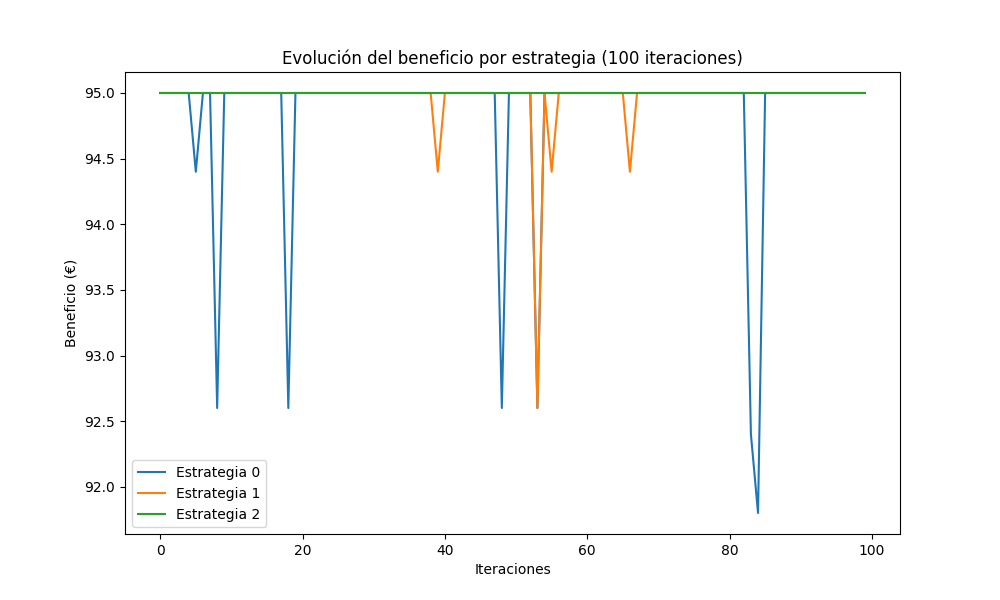
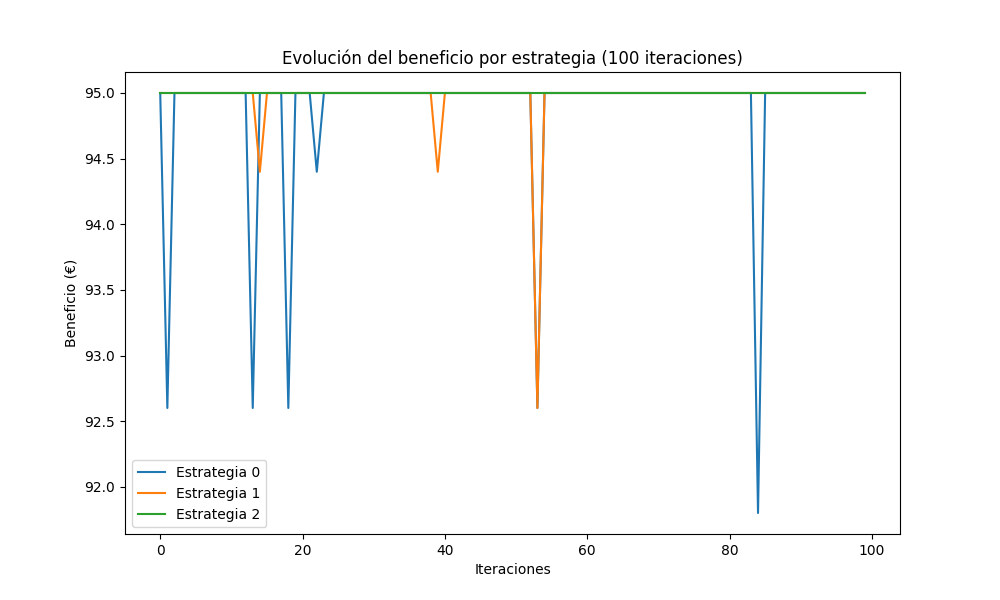
experiment 3

diff --git a/functions_bicing.py b/functions_bicing.py
@@ -22,7 +22,7 @@ def ejecucion_individual_HC(opt: int = 2, \
     tiempo_inicio = time.time()
     final_solution_HC = hill_climbing(problema_bicing)
     tiempo_final = time.time()
-    
+
     initial_state.print_state(inicial=True)
     initial_state.visualize_state(manhattan = True)
     final_solution_HC.print_state()
@@ -136,46 +136,6 @@ def comparar_all_operadores(opt: int = 0, \
     print(f"OPT: {opt} | ITERACIONES POR CONJUNTO DE OPERADORES: {iteraciones} | HEURÍSTICO: {2 if params.coste_transporte else 1}\n")
     print(f"SEMILLAS USADAS: {lista_semillas}\n")
 
-'''
-def mejor_initial_state(initial_strategies: list = [0, 1, 2], iteraciones: int = 10) -> None:
-    """
-    Compara los resultados de los tres métodos de generación de estados iniciales y escribe en pantalla los resultados indicando el mejor de ellos.
-    """
-    results_accumulated = {strategy: 0 for strategy in initial_strategies}
-
-    for i in range(iteraciones):
-        print(f"PROGRESO: {(i/iteraciones)*100}%")
-        for strategy in initial_strategies:
-            initial_state = generate_initial_state(opt=strategy)
-            
-            problema_bicing = ProblemaBicing(initial_state)
-            final_solution_HC = hill_climbing(problema_bicing)
-            
-            heuristic_value = final_solution_HC.heuristic()
-            
-            results_accumulated[strategy] += heuristic_value
-
-    results_average = {strategy: total/iteraciones for strategy, total in results_accumulated.items()}
-
-    print(f"\nHEURÍSTICO {2 if params.coste_transporte else 1} | {iteraciones} ITERACIONES:")
-    for strategy, avg in results_average.items():
-        print(f"   * OPT: {strategy} --> BENEFICIO MEDIO: {avg} {'[BEST]' if avg == max(results_average.values()) else ''}")
-    
-    # Creación del boxplot
-    strategies_names = [str(s) for s in initial_strategies]
-    data_to_plot = [results_accumulated[s] for s in initial_strategies]
-
-    fig, ax = plt.subplots()
-    ax.boxplot(data_to_plot)
-
-    ax.set_xticklabels(strategies_names)
-    ax.set_title('Comparación de Coste Heurístico por Estrategia de Solución Inicial')
-    ax.set_xlabel('Estrategias de Solución Inicial')
-    ax.set_ylabel('Coste Heurístico')
-
-    plt.savefig('experimento2.png', format='png')  # Guardar gráfico como PNG
-    plt.show()'''
-
 def mejor_initial_state(iteraciones: int = 15, \
                         iteraciones_estrategias_aleatorias: int = 5, \
                             semilla_rng: int = random.randint(0, 1000), \
@@ -243,11 +203,12 @@ def comparar_resultados_HC_SA(HC: bool = True, \
                               SA: bool = True, \
                                 iterations: int = 10, \
                                     opt: int = 2, \
-                                        schedule_sa = None, \
-                                            beneficios_bool: bool = True, \
-                                                tiempos_bool: bool = True, \
-                                                    distancias_bool: bool = True, \
-                                                        ocultar_progreso: bool = False) -> Union[None, list]:
+                                        operadores_activos: dict = {operator: True for operator in params.operadores_modificables}, \
+                                            schedule_sa = None, \
+                                                beneficios_bool: bool = True, \
+                                                    tiempos_bool: bool = True, \
+                                                        distancias_bool: bool = True, \
+                                                            mostrar_progreso: bool = True) -> Union[None, list]:
     """
     Realiza los experimentos con Hill Climbing y Simulated Annealing y genera las gráficas de los resultados.
     Se pueden desactivar los experimentos que no se quieran realizar.
@@ -259,11 +220,11 @@ def comparar_resultados_HC_SA(HC: bool = True, \
     tiempos_SA, beneficios_SA, distancias_SA = [], [], []
 
     for i in range(iterations):
-        if not ocultar_progreso:
+        if mostrar_progreso:
             print(f"PROGRESO: {round((i/iterations)*100, 1)}%", end='\r')
         
         # Generación del estado inicial
-        initial_state = generate_initial_state(opt=opt)
+        initial_state = generate_initial_state(opt=opt, operadores_activos=operadores_activos)
         initial_state.heuristic()
         problema_bicing = ProblemaBicing(initial_state)
 
@@ -334,12 +295,24 @@ def encontrar_parametros_SA(opt: int = 2, \
                                             operadores_activos: dict = {operator: True for operator in params.operadores_modificables}) -> tuple:
     
     resultados_SA = []
+    progreso = 0
     for k in valores_k:
         for lam in valores_lam:
+            progreso += 1
+            print(f"PROGRESO: {progreso}/{len(valores_k)*len(valores_lam)}", end='\r')
             def exp_schedule(k: float=k, lam: float=lam, limit: int=limit):
                 return lambda t: (k * exp(-lam * t)) if t < limit else 0
             
-            resultados_iteraciones = comparar_resultados_HC_SA(HC=False, SA=True, iterations=iteraciones_por_valor, opt=opt, schedule_sa=exp_schedule(), beneficios_bool=False, tiempos_bool=False, distancias_bool=False)
+            resultados_iteraciones = comparar_resultados_HC_SA(HC=False, \
+                                                               SA=True, \
+                                                                iterations=iteraciones_por_valor, \
+                                                                    opt=opt, \
+                                                                        operadores_activos=operadores_activos, \
+                                                                            schedule_sa=exp_schedule(), \
+                                                                                beneficios_bool=False, \
+                                                                                    tiempos_bool=False, \
+                                                                                        distancias_bool=False, \
+                                                                                            mostrar_progreso=False)
             promedio_iteraciones = sum(resultados_iteraciones)/iteraciones_por_valor
             resultados_SA.append((promedio_iteraciones, k, lam))
 
@@ -348,45 +321,65 @@ def encontrar_parametros_SA(opt: int = 2, \
     # Nos quedamos con el mejor resultado
     mejor_resultado = max(resultados_SA, key=lambda x: x[0])
     best_k, best_lambda = mejor_resultado[1], mejor_resultado[2]
+    print(f"Mejor resultado: {mejor_resultado}")
 
-    # Generar el gráfico 3D
+    # Valores únicos de k y lambda
+    k_values = sorted(set(k for _, k, _ in resultados_SA))
+    lam_values = sorted(set(lam for _, _, lam in resultados_SA))
+
+    # Inicializar matriz de ceros
+    matrix = np.zeros((len(k_values), len(lam_values)))
+
+    # Poblar la matriz con los datos
+    for beneficio, k, lam in resultados_SA:
+        i = k_values.index(k)
+        j = lam_values.index(lam)
+        matrix[i, j] = beneficio
+
+    # Verificar la matriz
+    for i, k in enumerate(k_values):
+        for j, lam in enumerate(lam_values):
+            print(f"Matriz en k={k}, lambda={lam}: {matrix[i, j]}")
+
+
+    # Crear la figura y los ejes
     fig = plt.figure()
     ax = fig.add_subplot(111, projection='3d')
 
-    # Extract k, lambda and results from resultados_SA
-    ks = [res[1] for res in resultados_SA]
-    lambdas = [res[2] for res in resultados_SA]
-    results = [res[0] for res in resultados_SA]
+    # Generar coordenadas para cada barra
+    _x = np.arange(len(k_values))
+    _y = np.arange(len(lam_values))
+    _xx, _yy = np.meshgrid(_x, _y)
+    x, y = _xx.ravel(), _yy.ravel()
 
-    # Assuming results are positive, you can set bottom to 0 for simplicity.
-    bottom = np.zeros_like(results)
+    # Valores de z (beneficio)
+    z = matrix.T.ravel()
 
-    # Define bar width and depth. You may need to adjust these depending on the granularity of your data.
-    width = depth = 5
+    # Definir el ancho, la profundidad y la altura de cada barra
+    dx = dy = 0.45
 
-    ax.bar3d(ks, lambdas, bottom, width, depth, results)
+    # Mapa de colores
+    colors = ['r', 'g', 'b', 'y', 'c', 'm']
+    num_lam_values = len(lam_values)
+    colors = colors * (num_lam_values // len(colors) + 1)
 
+    # Obtener los índices en orden descendente basado en z
+    sorted_indices = np.argsort(z)[::-1]
+
+    # Crear el gráfico de barras con colores distintos para cada fila de lambda usando los índices ordenados
+    for idx in sorted_indices:
+        color_idx = int(_yy.ravel()[idx])
+        ax.bar3d(x[idx], y[idx], 0, dx, dy, z[idx], shade=True, color=colors[color_idx] if z[idx] != 95.0 else '0.5')
+
+    # Etiquetas para los ejes
+    ax.set_xticks(_x + dx/2)
+    ax.set_yticks(_y + dy/2)
+    ax.set_xticklabels(k_values)
+    ax.set_yticklabels(lam_values)
     ax.set_xlabel('K')
     ax.set_ylabel('λ')
     ax.set_zlabel('Beneficio (€)')
-    ax.set_title('Variación del beneficio para SA para varios valores de k y λ')
-    plt.savefig("parametros_SA.png")
+
+    plt.savefig('parametros_SA.png')
     plt.close()
-
-
-    plt.figure(figsize=(10, 6))
     
-    # Para cada combinación de k y λ, dibujamos la evolución del coste en función del número de pasos
-    for resultado in resultados_SA:
-        costes, k, lam = resultado
-        plt.plot(costes, label=f"k={k}, λ={lam}")
-
-    plt.title("Evolución del coste para diferentes valores de k y λ")
-    plt.xlabel("pasos")
-    plt.ylabel("coste")
-    plt.legend()
-    plt.grid(True, which='both', linestyle='--', linewidth=0.5)
-    plt.tight_layout()
-    plt.savefig("evolucion_coste_SA.png")
-    plt.close()
-    return best_k, best_lambda, limit

diff --git a/main.py b/main.py
@@ -9,9 +9,9 @@ def experimento1(opt: int, semilla: int) -> None:
                                     iteraciones=15)
 
 
-def experimento2(operadores_resultado_exp1: dict, semilla_rng) -> None:
+def experimento2(operadores_resultado_exp1: dict, semilla_rng: int, iteraciones: int) -> None:
     # Experimento 2: Comparación de initial_state
-    mejor_initial_state(iteraciones=100, \
+    mejor_initial_state(iteraciones=iteraciones, \
                         semilla_rng=semilla_rng, \
                             operadores_activos=operadores_resultado_exp1)
 
@@ -21,7 +21,8 @@ def experimento3(operadores_resultado_exp1: dict, opt_resultado_exp2: int, valor
                                 operadores_activos=operadores_resultado_exp1, \
                                     valores_k=valores_k, \
                                         valores_lam=valores_lam, \
-                                            limit=limite)
+                                            limit=limite, \
+                                                iteraciones_por_valor=10)
 
 def experimento4() -> None:
     # Experimento 4: Comparación de HC
@@ -29,7 +30,6 @@ def experimento4() -> None:
 
 def experimento5() -> None:
     # Experimento 5: Comparación de HC y SA
-    k, lam, limit = encontrar_parametros_SA(opt=2, iteraciones_por_valor=1)
 
     def exp_schedule(k: float=k, lam: float=lam, limit: int=limit):
         return lambda t: (k * exp(-lam * t)) if t < limit else 0
@@ -38,7 +38,6 @@ def experimento5() -> None:
 
 def experimento6() -> None:
     # Experimento 6: Comparación de HC y SA
-    k, lam, limit = encontrar_parametros_SA(opt=2, iteraciones_por_valor=1)
 
     def exp_schedule(k: float=k, lam: float=lam, limit: int=limit):
         return lambda t: (k * exp(-lam * t)) if t < limit else 0
@@ -51,28 +50,28 @@ def experimento6() -> None:
 if __name__ == "__main__":
 
     # ----- Experimento 1 -----
-    experimento1(opt=1, semilla=1234)
+    #experimento1(opt=1, semilla=1234)
     
     operadores_exp1: dict = {'CambiarOrdenDescarga': True, \
-                    'IntercambiarEstacionDescarga': True, \
+                    'IntercambiarEstacionDescarga': False, \
                     'IntercambiarEstacionCarga': False, \
                         'ReasignarFurgonetaInformado': True}
 
     # ----- Experimento 2 -----    
-    #experimento2(operadores_resultado_exp1=operadores_exp1, semilla_rng=1234)
+    #experimento2(operadores_resultado_exp1=operadores_exp1, semilla_rng=1234, iteraciones=100)
     
     opt_exp2: int = 2
 
     # ----- Experimento 3 -----
-    valores_k: list = [1, 5, 25, 50, 100, 150]
-    valores_lam: list = [0.0001, 0.001, 0.01, 1]
-    limite: int = 10_000
+    valores_k: list = [0.001, 0.01, 0.1, 1, 10, 100]
+    valores_lam: list = [0.0001, 0.001, 0.01, 0.1, 0.99]
+    limite: int = 15_000
 
-    #experimento3(operadores_resultado_exp1=operadores_exp1, opt_resultado_exp2=opt_exp2, valores_k=valores_k, valores_lam=valores_lam, limite=limite)
+    experimento3(operadores_resultado_exp1=operadores_exp1, opt_resultado_exp2=opt_exp2, valores_k=valores_k, valores_lam=valores_lam, limite=limite)
 
-    k_exp3: int = 0
-    lam_exp3: int = 0
-    limite_exp3: int = 0
+    k_exp3: float = 0.1
+    lam_exp3: float = 0.1
+    limite_exp3: float = 15000
 
     # ----- Experimento 4 -----
     #experimento4(operadores_resultado_exp1=operadores_exp1, opt_resultado_exp2=opt_exp2)

diff --git a/parameters_bicing.py b/parameters_bicing.py
@@ -15,7 +15,7 @@ params = Parameters(n_estaciones=25, \
 					n_bicicletas=1250, \
 						n_furgonetas=5, \
 							seed=42, \
-								coste_transporte=True, \
+								coste_transporte=False, \
 									operadores_modificables={'CambiarOrdenDescarga', \
 								  'IntercambiarEstacionDescarga', \
 									'IntercambiarEstacionCarga', \
